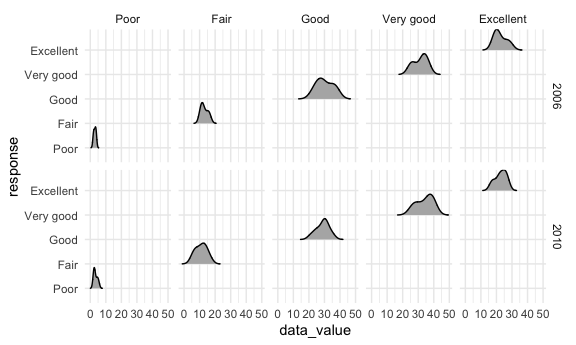
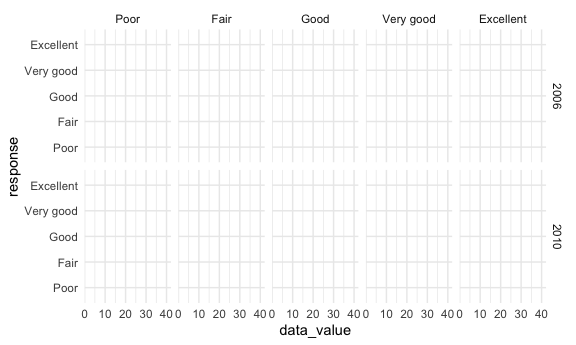
uninstalled unnecessary packages (ggridges); removed janitor::clean_names() for instacart dataset because the variable names are already in the format in the original dataset

diff --git a/p8105_hw3_rr3423.md b/p8105_hw3_rr3423.md
@@ -11,27 +11,19 @@ Ragyie Rawal
 data("instacart")
 ```
 
-### Cleaning variable names in Instacart datacart
-
-``` r
-instacart_df = 
-  instacart %>% 
-  janitor::clean_names()
-```
-
 ### Dataset exploration
 
 ``` r
 rows_instacart = 
-  instacart_df %>% 
+  instacart %>% 
   nrow() 
 
 cols_instacart =
-  instacart_df %>%
+  instacart %>%
   ncol()
 
 names_instacart =
-  instacart_df %>%
+  instacart %>%
   names()
 ```
 
@@ -52,7 +44,7 @@ How many aisles are there, and which aisles are the most items ordered
 from?
 
 ``` r
-instacart_df %>% 
+instacart %>% 
   group_by(aisle) %>% 
   summarize(item_count = n()) %>% 
   arrange(desc(item_count))
@@ -80,7 +72,7 @@ most items are ordered from in descending order are: “fresh vegetables”,
 ### Constructing a plot of the number of items ordered in each aisle (more than 10000 items)
 
 ``` r
-instacart_df %>% 
+instacart %>% 
   group_by(aisle) %>% 
   summarize(item_count = n()) %>% 
   filter(item_count > 10000) %>% 
@@ -105,7 +97,7 @@ from in descending order are: “fresh vegetables”, “fresh fruits”, and
 ### Constructing a table of three most popular items in each of the aisles “baking ingredients”, “dog food care”, “packaged vegetables fruits”
 
 ``` r
-instacart_df %>% 
+instacart %>% 
   filter(aisle %in% c("baking ingredients", "dog food care", "packaged vegetables fruits")) %>% 
   group_by(aisle, product_name) %>% 
   summarize(item_count = n()) %>% 
@@ -140,7 +132,7 @@ Blueberries with 4966 times ordered.
 ### Constructing a table of mean hour of day at which Pink Lady Apples and Coffee Ice Cream are ordered on each day of the week
 
 ``` r
-instacart_df %>% 
+instacart %>% 
   filter(product_name %in% c("Pink Lady Apples", "Coffee Ice Cream")) %>% 
   group_by(product_name, order_dow) %>% 
   summarize(mean_hour = mean(order_hour_of_day, na.rm = TRUE)) %>% 
@@ -260,31 +252,12 @@ brfss_df %>%
     locationabbr %in% c("NY")
   ) %>% 
   ggplot(aes(x = data_value, y = response)) + 
-  geom_density_ridges(scale = 0.85) + 
   facet_grid(year ~ response)
 ```
 
-    ## Picking joint bandwidth of 0.48
-
-    ## Picking joint bandwidth of 1.42
-
-    ## Picking joint bandwidth of 3.36
-
-    ## Picking joint bandwidth of 2.75
-
-    ## Picking joint bandwidth of 2.52
-
-    ## Picking joint bandwidth of 0.708
-
-    ## Picking joint bandwidth of 2.14
-
-    ## Picking joint bandwidth of 2.25
-
-    ## Picking joint bandwidth of 3.05
-
-    ## Picking joint bandwidth of 1.99
-
 <img src="p8105_hw3_rr3423_files/figure-gfm/two_panel_plot-1.png" width="90%" />
+
+-   you should put specific locations
 
 ## PROBLEM 3
 
